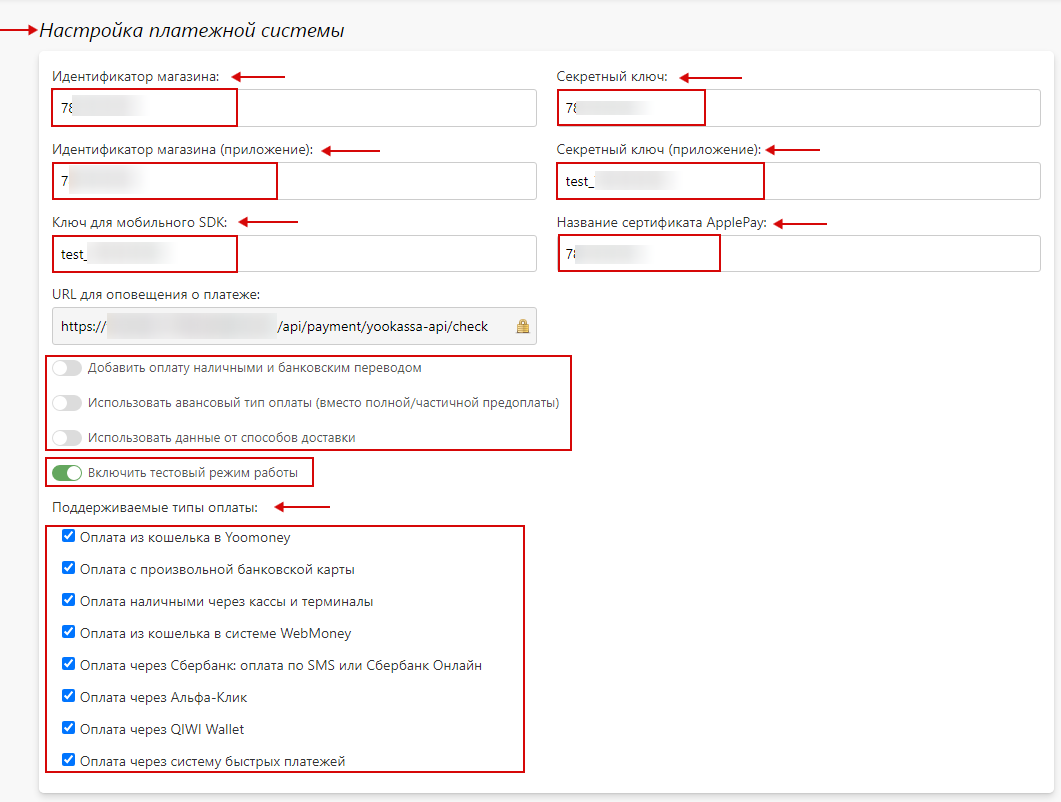
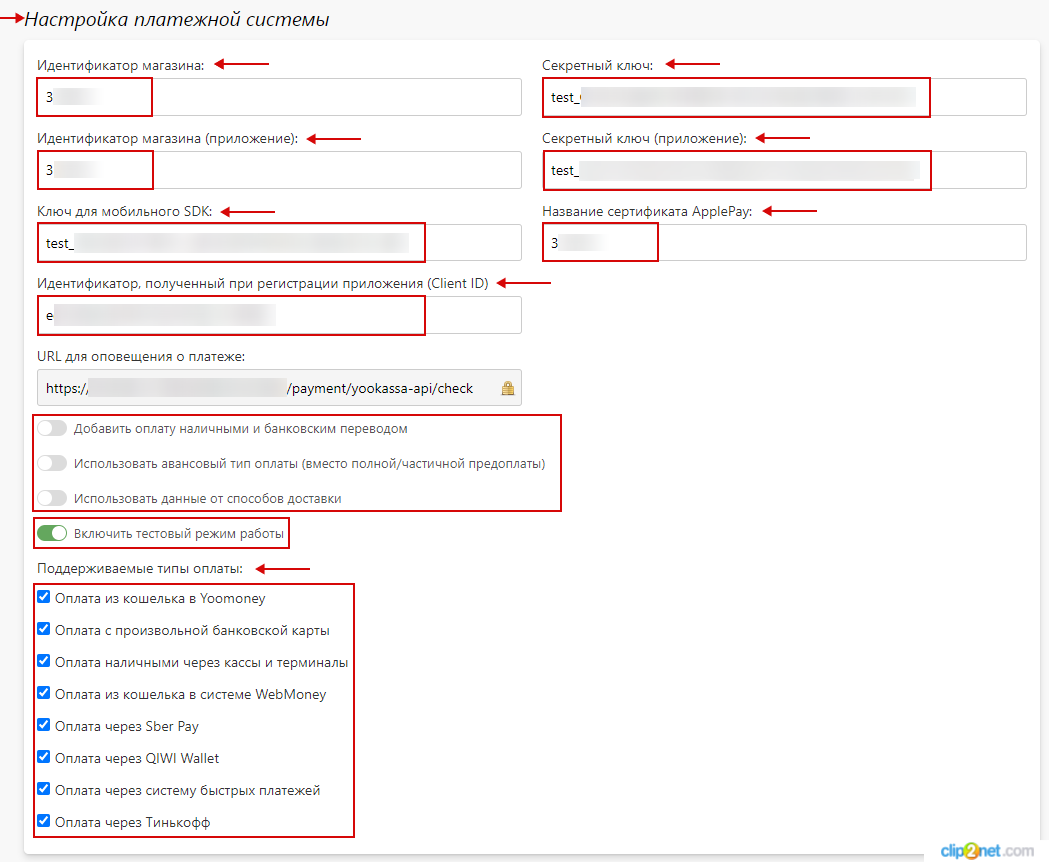
fix yookassa

diff --git a/docs/integration/payments.md b/docs/integration/payments.md
@@ -235,6 +235,8 @@ sidebar_position: 1
     + "__Секретный ключ (мобильное приложение)__" - секретный ключ тестового магазина в ЮKassa.
     + "__Ключ для мобильного SDK__" - ключ для тестового мобильного SDK в ЮKassa (создается при необходимости приема платежей в мобильном приложении).
     + "__Название сертификата ApplePay__" - сертификат ApplePay для ЮKassa.
+    + "__Идентификатор, полученный при регистрации приложения (Client ID)__" - Client ID, полученный при регистрации приложения на сайте [https://yookassa.ru](https://yookassa.ru/oauth/v2/client)
+![](../_media/integration/yookassa-08.png)
     + "__Поддерживаемые типы оплаты__" - выбрать необходимые пункты.
     + "__Добавить оплату наличными или банковским переводом__" - включить при необходимости.
     + "__Использовать авансовый тип оплаты (вместо полной / частичной оплаты)__" - включить при необходимости.
@@ -256,6 +258,8 @@ sidebar_position: 1
     + "__Секретный ключ (мобильное приложение)__" - секретный ключ магазина для мобильного приложения в ЮKassa.
     + "__Ключ для мобильного SDK__" - ключ для мобильного SDK в ЮKassa (создается при необходимости приема платежей в мобильном приложении).
     + "__Название сертификата ApplePay__" - сертификат ApplePay для ЮKassa.
+    + "__Идентификатор, полученный при регистрации приложения (Client ID)__" - Client ID, полученный при регистрации приложения на сайте [https://yookassa.ru](https://yookassa.ru/oauth/v2/client)
+![](../_media/integration/yookassa-08.png)
     + "__Включить тестовый режим работы__" - необходимо выключить.
 ![](../_media/integration/yookassa-06.png)
 * Далее, нажать кнопку "__Сохранить__" и сбросить кэш сайта.

diff --git a/docs/app/faq.md b/docs/app/faq.md
@@ -45,6 +45,14 @@ sidebar_position: 8
     + PayPal
     + Liqpay
 
+### Способы оплаты ЮКассы
+* Мобильное SDK ЮКассы поддерживает:
+    + Банковская карта; 
+    + ЮMoney;
+    + SberPay;
+    + СБП.
+* Если какого-то из данных способов оплаты у вас нет, то по вопросу подключения недостающего способа оплаты, необходимо обратьтся к менеджеру ЮКассы.
+
 ### Способы доставки
 * В мобильном приложении __поддерживаются__ следующие типы доставок: 
     + собственные точки выдачи; 
